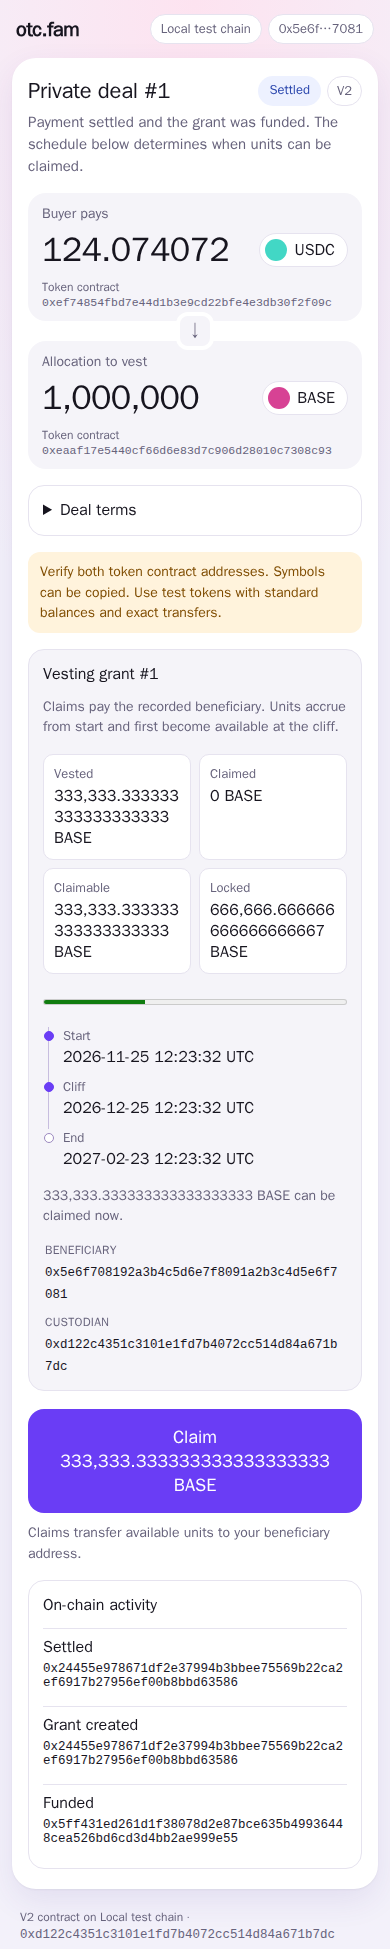
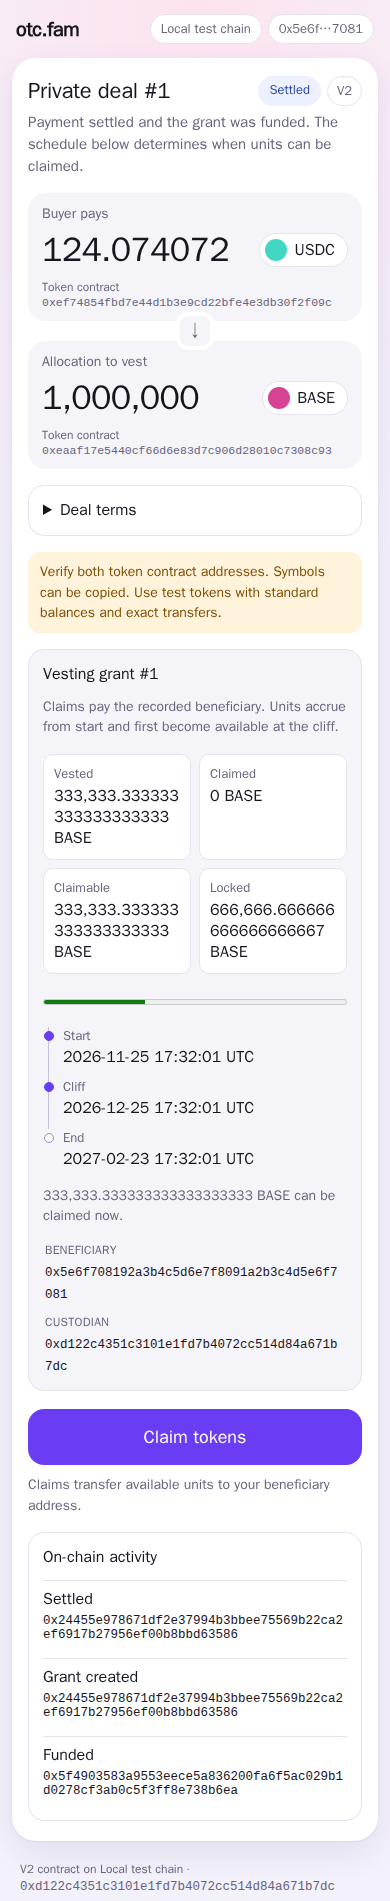
Keep claim focus and let sellers recheck balances

diff --git a/web/v2-new-page.js b/web/v2-new-page.js
@@ -1,6 +1,6 @@
 import { approveExactly, explain, same, transact, ZERO_ADDRESS } from "./eth.js";
 import { createV2Data, DELIVERY, feeBreakdown, fundedId } from "./eth-v2.js";
-import { action, amount, card, fact, h, leg, networkName, NO_WALLET, notice } from "./ui.js";
+import { action, amount, card, fact, h, leg, networkName, NO_WALLET, notice, secondary } from "./ui.js";
 import { isAddress, parseAmount } from "./units.js";
 import { transactionTracker } from "./v2-transactions.js";
 import { displayDelivery, economics, replaceIfChanged, schedule, spanAddress, tokenWarning, txDetails, utc, v2Link, version } from "./v2-ui.js";
@@ -151,6 +151,11 @@ export function v2NewPage(app) {
     return request;
   }
 
+  function recheckBalance() {
+    s.funds = null;
+    render();
+  }
+
   function render() {
     if (!live) return;
     const t = form();
@@ -183,10 +188,13 @@ export function v2NewPage(app) {
       return action({ button: { label: `Switch to ${networkName(config.chainId)}`, run: switchNetwork }, notice: s.notice });
     }
     const f = sellerFunds(t.asset);
-    if (f.error) return action({ button: { label: "Retry balance read", run: refresh }, notice: { kind: "error", text: f.error } });
+    if (f.error) return action({ button: { label: "Retry balance read", run: recheckBalance }, notice: { kind: "error", text: f.error } });
     if (f.balance === undefined) return action({ hint: "Checking your token balance and allowance…" });
     const give = amount(t.terms.allocation, t.asset);
-    if (f.balance < t.terms.allocation) return action({ notice: { kind: "warn", text: `This seller holds ${amount(f.balance, t.asset)}. Funding requires ${give}.` } });
+    if (f.balance < t.terms.allocation) return action({
+      notice: { kind: "warn", text: `This seller holds ${amount(f.balance, t.asset)}. Funding requires ${give}. Top up this wallet, then recheck.` },
+      extra: secondary("recheck-balance", "Recheck balance", recheckBalance),
+    });
     if (f.allowance < t.terms.allocation) return action({
       button: { label: `Approve ${give}`, run: approve },
       hint: "Approval allows the V2 contract to take this allocation when you fund the deal.", notice: s.notice,
@@ -205,9 +213,8 @@ export function v2NewPage(app) {
       s.notice = { kind: "error", text: explain(e) };
       s.txHash = e.transactionHash;
     }
-    s.funds = null;
     s.busy = null;
-    render();
+    recheckBalance();
   }
 
   const completed = (receipt, operation) => {
@@ -251,5 +258,5 @@ export function v2NewPage(app) {
   render();
   if (tracker.pending) resume();
   readChain().then(render);
-  return { update() { s.funds = null; render(); }, stop() { live = false; } };
+  return { update: recheckBalance, stop() { live = false; } };
 }

diff --git a/web/v2-deal-page.js b/web/v2-deal-page.js
@@ -178,7 +178,7 @@ export function v2DealPage(app, id) {
     if (s.error) return action({ button: { label: "Refresh on-chain status", run: load }, notice: s.notice });
     const account = wallet?.account;
     const isSeller = same(account, d.seller);
-    const { grant, payment, funds, base } = s.data;
+    const { grant, payment, funds } = s.data;
     const mayClaim = !short && grant && grant.vested > grant.claimed;
     const mayRefund = isSeller && d.status === "funded";
     const maySettle = d.status === "funded" && !refundable && !short;
@@ -193,7 +193,7 @@ export function v2DealPage(app, id) {
     }
     if (mayRefund) return action({ extra: secondary("cancel-action", "Cancel deal & refund escrow", cancel),
       hint: "The allocation returns to the seller wallet.", notice: s.notice });
-    if (mayClaim) return action({ button: { label: `Claim ${amount(grant.vested - grant.claimed, base)}`, run: claim },
+    if (mayClaim) return action({ button: { label: "Claim tokens", run: claim },
       hint: same(account, grant.beneficiary) ? "Claims transfer available units to your beneficiary address."
         : `This wallet may trigger the claim. The tokens will go to ${grant.beneficiary}.`, notice: s.notice });
     if (!maySettle || !same(account, d.buyer)) return action({ notice: { kind: "warn", text: "Connect the designated buyer wallet to settle this deal." } });

diff --git a/README.md b/README.md
@@ -66,7 +66,9 @@ of 123.456789, buyer total of 124.074072, seller net of 122.839506 and treasury 
 The grant cases check a fixed UTC start and a settlement-block start, day 29, the cliff, day 45
 after a prior claim and the final claim at day 90. The browser cases also exercise a new
 read-only session, wallet rejection, wrong network, a mined revert, transaction replacement
-and reload. [Screenshots](docs/evidence/) show the funded deal, seller review, immediate
+and reload. The browser run verifies that the claim button keeps keyboard focus as the claimable
+amount updates and that a seller can recheck after a top-up without losing the draft.
+[Screenshots](docs/evidence/) show the funded deal, seller review, immediate
 settlement and grant status before and after claims.
 
 ### V2 custody and limits
